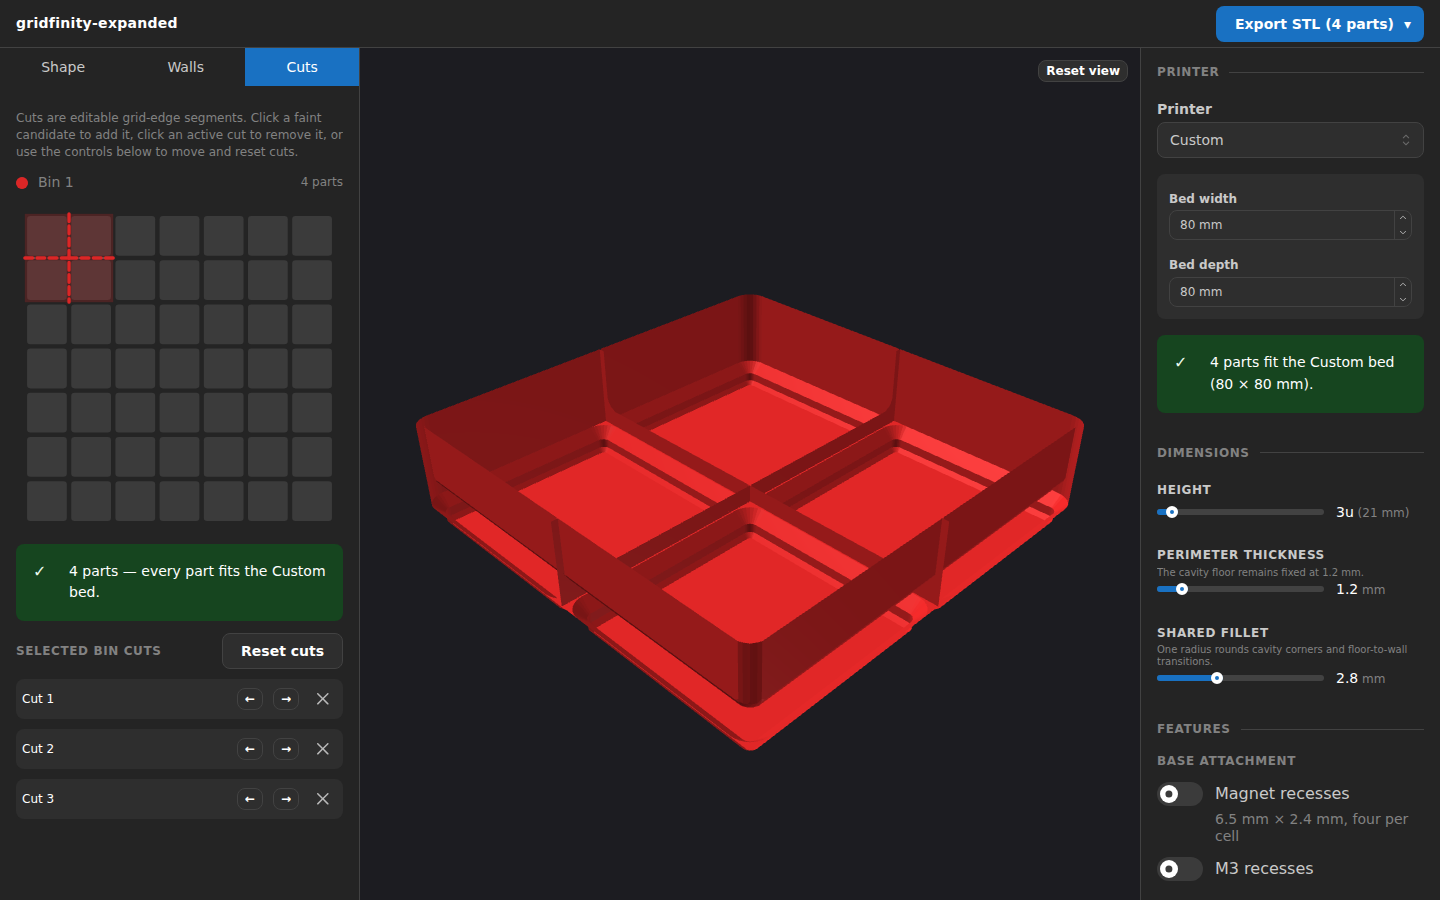
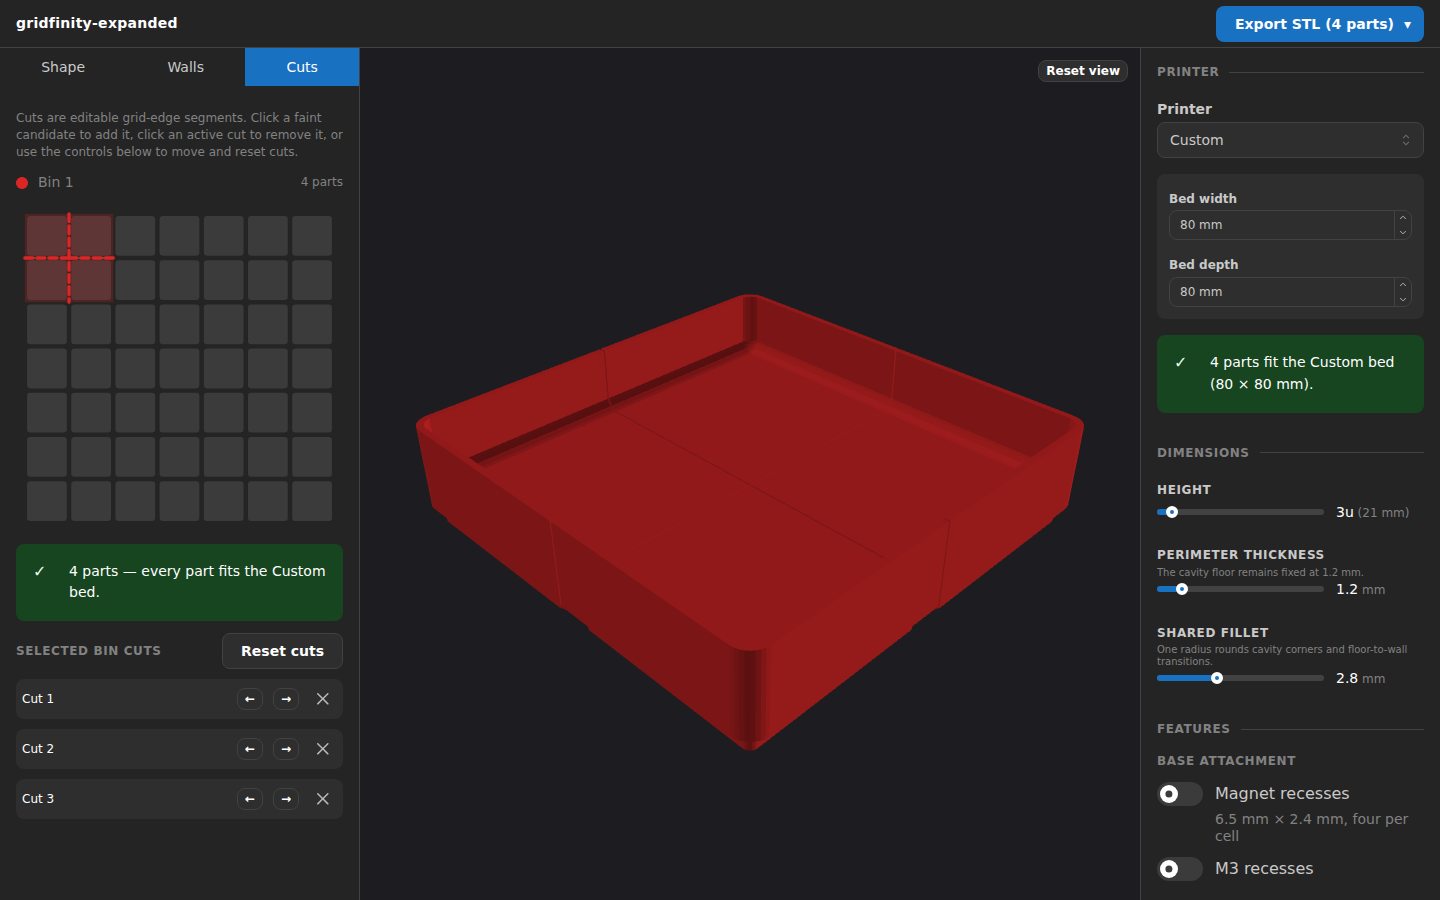
Render manifold winding with counter-clockwise materials

Changed region(s): [[0.2812, 0.3111, 0.75, 0.84]]

diff --git a/src/components/viewer/BabylonViewer.tsx b/src/components/viewer/BabylonViewer.tsx
@@ -10,6 +10,7 @@ import {
   EasingFunction,
   Engine,
   HemisphericLight,
+  Material,
   Mesh,
   Scene,
   StandardMaterial,
@@ -26,6 +27,7 @@ const DEFAULT_RADIUS = 140;
 const FIT_MARGIN = 1.08;
 const ANIMATION_FPS = 60;
 const ANIMATION_FRAMES = 36;
+const FACE_ORIENTATION = 'counter-clockwise';
 
 interface Props {
   parts: GeneratedPart[];
@@ -163,6 +165,7 @@ export function BabylonViewer({ parts, error }: Props) {
         material = new StandardMaterial(binKey, scene);
         material.diffuseColor = Color3.FromHexString(binColor(binKey));
         material.specularColor = new Color3(0.15, 0.15, 0.15);
+        material.sideOrientation = Material.CounterClockWiseSideOrientation;
         materials.set(binKey, material);
       }
       const mesh = new Mesh(`${binKey}-part-${partIndex + 1}`, scene);
@@ -193,6 +196,7 @@ export function BabylonViewer({ parts, error }: Props) {
       className="viewer"
       data-part-count={parts.length}
       data-coordinate-orientation="editor-row-down"
+      data-face-orientation={FACE_ORIENTATION}
       data-mesh-topology="flat-triangle-soup"
       data-preview-offsets={parts.map((part) =>
         `${part.previewOffset.x.toFixed(2)},${part.previewOffset.y.toFixed(2)}`).join(';')}

diff --git a/e2e/smoke.spec.ts b/e2e/smoke.spec.ts
@@ -108,6 +108,7 @@ test('renders an L-shaped triangle soup in editor orientation and resets the orb
   const viewer = page.locator('.viewer');
   await expect(viewer).toHaveAttribute('data-part-count', '1', { timeout: 30_000 });
   await expect(viewer).toHaveAttribute('data-coordinate-orientation', 'editor-row-down');
+  await expect(viewer).toHaveAttribute('data-face-orientation', 'counter-clockwise');
   await expect(viewer).toHaveAttribute('data-mesh-topology', 'flat-triangle-soup');
 
   const canvas = page.locator('canvas.viewer-canvas');

diff --git a/docs/babylon-viewer.md b/docs/babylon-viewer.md
@@ -6,7 +6,7 @@ The normative preview/export relationship and coordinate rules live in [`geometr
 
 `BabylonViewer` receives the same `GeneratedPart[]` that `ExportMenu` serializes. Each part contains a `binIndex`, a global-coordinate `Float32Array` triangle soup, and a preview-only offset.
 
-There is no preview STL, loader, vertex welding, smoothing, or vertex splitting. The viewer creates sequential indices for the soup, computes normals, and applies `VertexData` directly. Since every triangle owns three vertices, its normal remains independent and the preview is flat-faceted.
+There is no preview STL, loader, vertex welding, smoothing, or vertex splitting. The viewer creates sequential indices for the soup, computes normals, and applies `VertexData` directly. Since every triangle owns three vertices, its normal remains independent and the preview is flat-faceted. Manifold emits outward counter-clockwise winding, so the shared Babylon materials explicitly use counter-clockwise face orientation in the right-handed scene; back-face culling remains enabled and hides only the solid interior.
 
 ## Coordinates
 